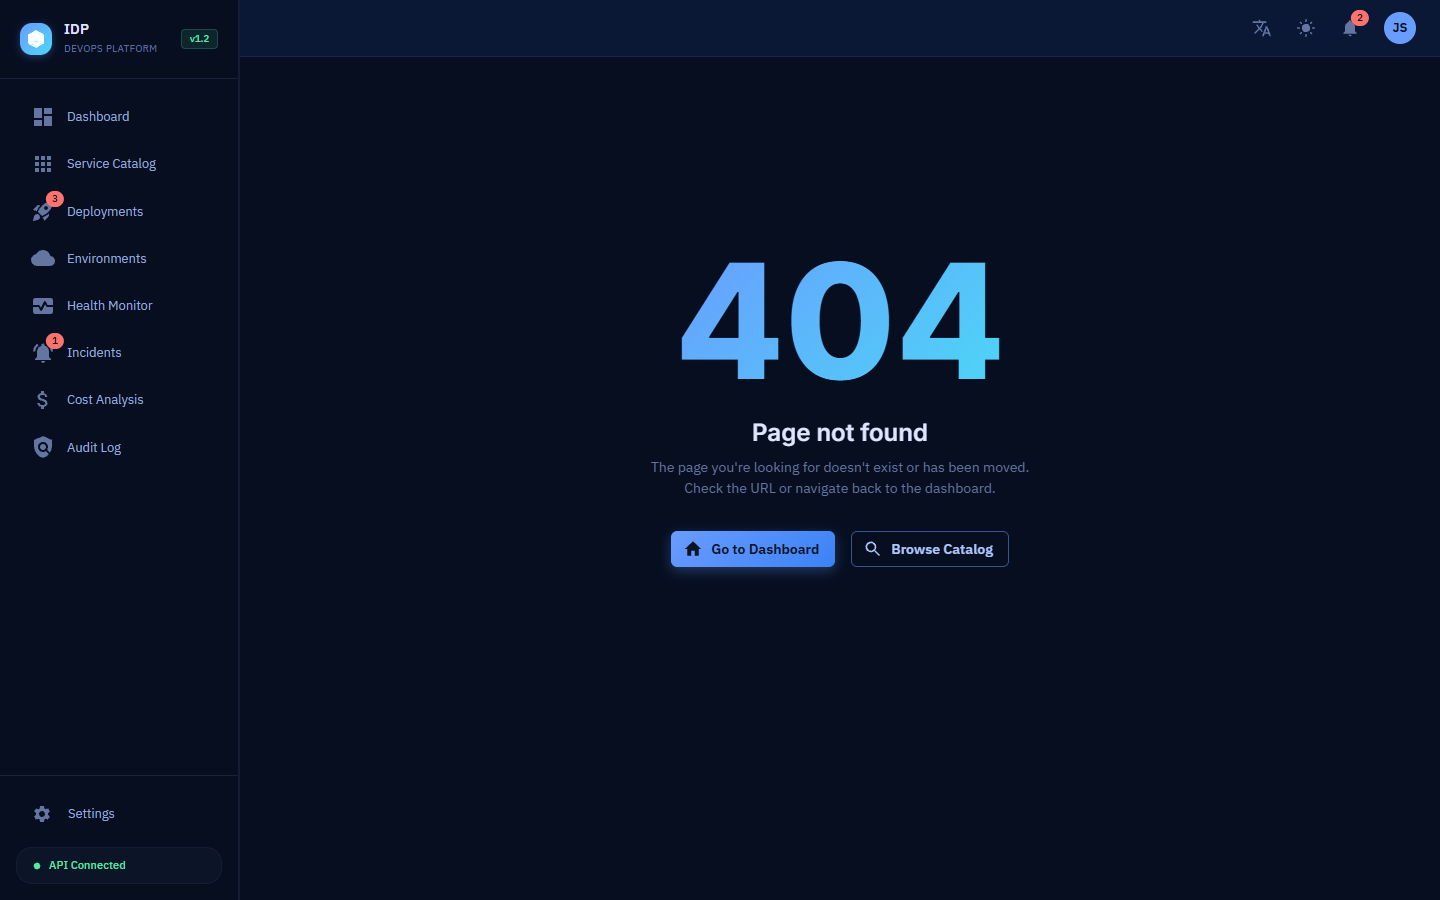
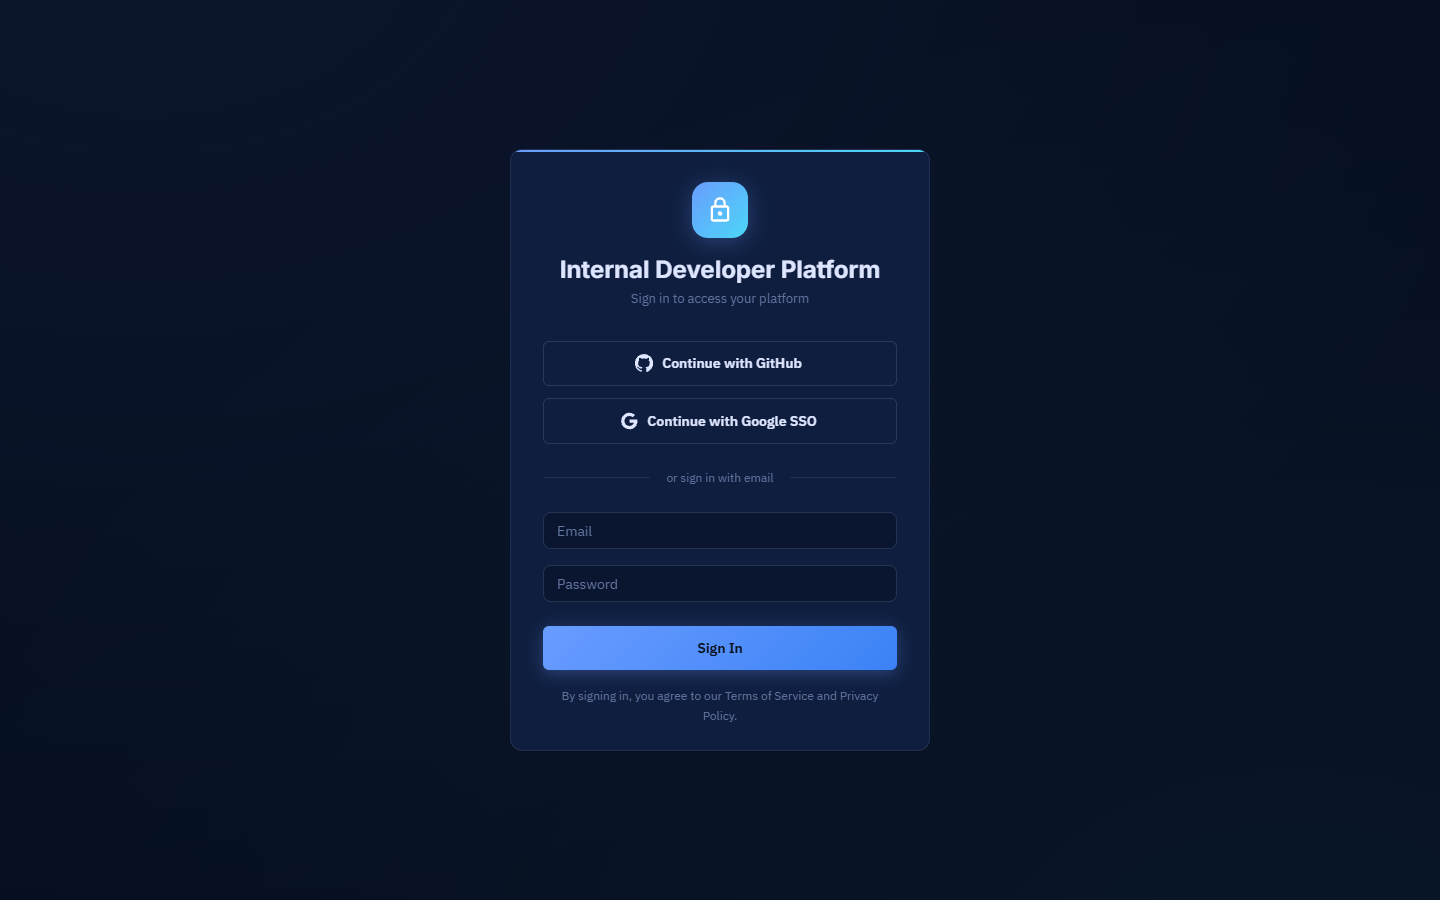
fix(portal): show login page at /login even when authenticated
Allows capturing proper login screenshot and provides a preview route.

diff --git a/apps/portal/src/App.tsx b/apps/portal/src/App.tsx
@@ -1,6 +1,6 @@
 import { CssBaseline, Box, CircularProgress, Typography } from '@mui/material';
 import React, { Suspense, lazy } from 'react';
-import { BrowserRouter as Router, Routes, Route, Navigate } from 'react-router-dom';
+import { BrowserRouter as Router, Routes, Route, Navigate, useLocation } from 'react-router-dom';
 
 import { AuthProvider, useAuth } from './auth/AuthProvider';
 import { ProtectedRoute } from './auth/ProtectedRoute';
@@ -72,9 +72,10 @@ export const navigationConfig = [
 /** Inner app routes — separated to access auth context */
 const AppRoutes: React.FC = () => {
   const { isAuthenticated } = useAuth();
+  const location = useLocation();
 
-  // Show login page if not authenticated
-  if (!isAuthenticated) {
+  // Show login page if not authenticated OR if explicitly on /login path
+  if (!isAuthenticated || location.pathname === '/login') {
     return (
       <Suspense fallback={<PageLoader />}>
         <LoginPage />